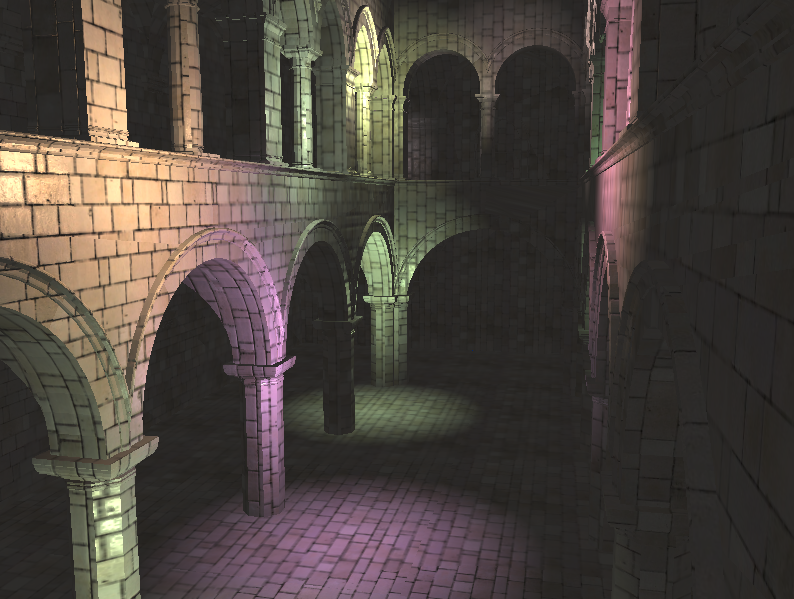
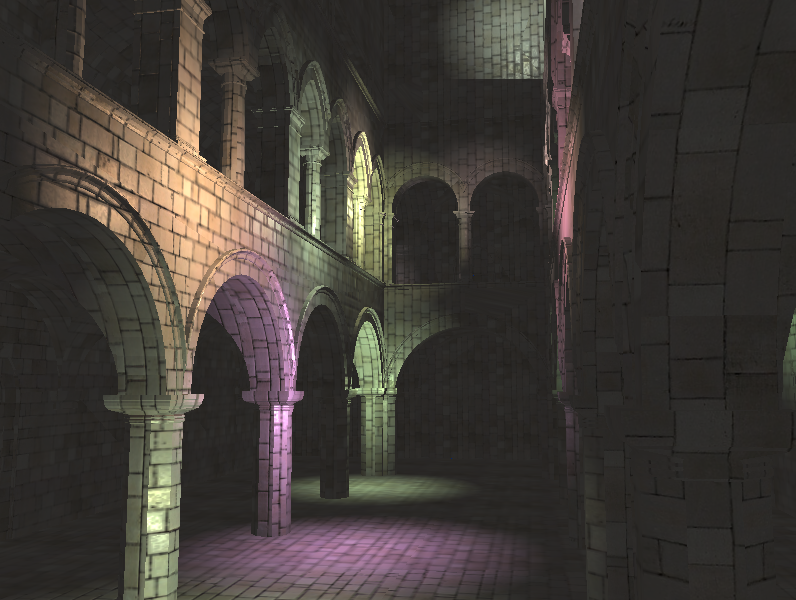
bloom, error src and des buffer same

diff --git a/js/deferredRender.js b/js/deferredRender.js
@@ -12,7 +12,8 @@
             !R.prog_Debug ||
             !R.progPost1 ||
             
-            !R.prog_Contour
+            !R.prog_Contour ||
+            !R.prog_Bloom
             )) {
             console.log('waiting for programs to load...');
             return;
@@ -182,7 +183,28 @@
         // Disable blending so that it doesn't affect other code
         
         
-        //
+        //bloom
+        if(true)
+        {
+            gl.blendFunc(gl.ONE,gl.ONE);
+            var prog = R.prog_Bloom;
+            
+            gl.useProgram(prog.prog);
+            gl.activeTexture(gl['TEXTURE0']);
+            gl.bindTexture(gl.TEXTURE_2D, R.pass_deferred.colorTex);
+            gl.uniform1f(prog.u_width, width);
+            gl.uniform1f(prog.u_height,height);
+            
+            //x
+            gl.uniform1i(prog.u_axis, 0);
+            
+            renderFullScreenQuad(prog);
+            
+            //y
+            gl.uniform1i(prog.u_axis, 1);
+            
+            renderFullScreenQuad(prog);
+        }
         
         
         
@@ -193,7 +215,7 @@
             var prog = R.prog_Contour;
             gl.useProgram(prog.prog);
             gl.bindTexture(gl.TEXTURE_2D, R.pass_copy.depthTex);
-            gl.uniform1i(prog.u_depth, R.NUM_GBUFFERS);
+            gl.uniform1i(prog.u_depth, 0);
             gl.uniform1f(prog.u_width, width);
             gl.uniform1f(prog.u_height,height);
             renderFullScreenQuad(R.prog_Contour);
@@ -247,6 +269,7 @@
 
         // * Render a fullscreen quad to perform shading on
         renderFullScreenQuad(R.progPost1);
+        
     };
 
     var renderFullScreenQuad = (function() {

diff --git a/js/deferredSetup.js b/js/deferredSetup.js
@@ -163,6 +163,26 @@
             
             R.prog_Contour = p;
         });
+        
+        
+        loadDeferredProgram('bloom',function(p){
+            // Save the object into this variable for access later
+            p.u_width = gl.getUniformLocation(p.prog, 'u_width');
+            p.u_height = gl.getUniformLocation(p.prog, 'u_height');
+            p.u_axis = gl.getUniformLocation(p.prog, 'u_axis');
+            p.u_color    = gl.getUniformLocation(p.prog, 'u_color');
+            R.prog_Bloom = p;
+        });
+        
+        /*
+        loadPostProgram('bloom',function(p){
+            // Save the object into this variable for access later
+            p.u_width = gl.getUniformLocation(p.prog, 'u_width');
+            p.u_height = gl.getUniformLocation(p.prog, 'u_height');
+            p.u_axis = gl.getUniformLocation(p.prog, 'u_axis');
+            R.prog_Bloom = p;
+        });
+        */
     };
 
     var loadDeferredProgram = function(name, callback) {

diff --git a/js/ui.js b/js/ui.js
@@ -30,6 +30,7 @@ var cfg;
         eff0.add(cfg, 'enableToon');
         //eff0.add(cfg, 'enableToon');
         // TODO: add more effects toggles and parameters here
+        eff0.add(cfg,'enableBloom');
     };
 
     window.handle_load.push(init);
